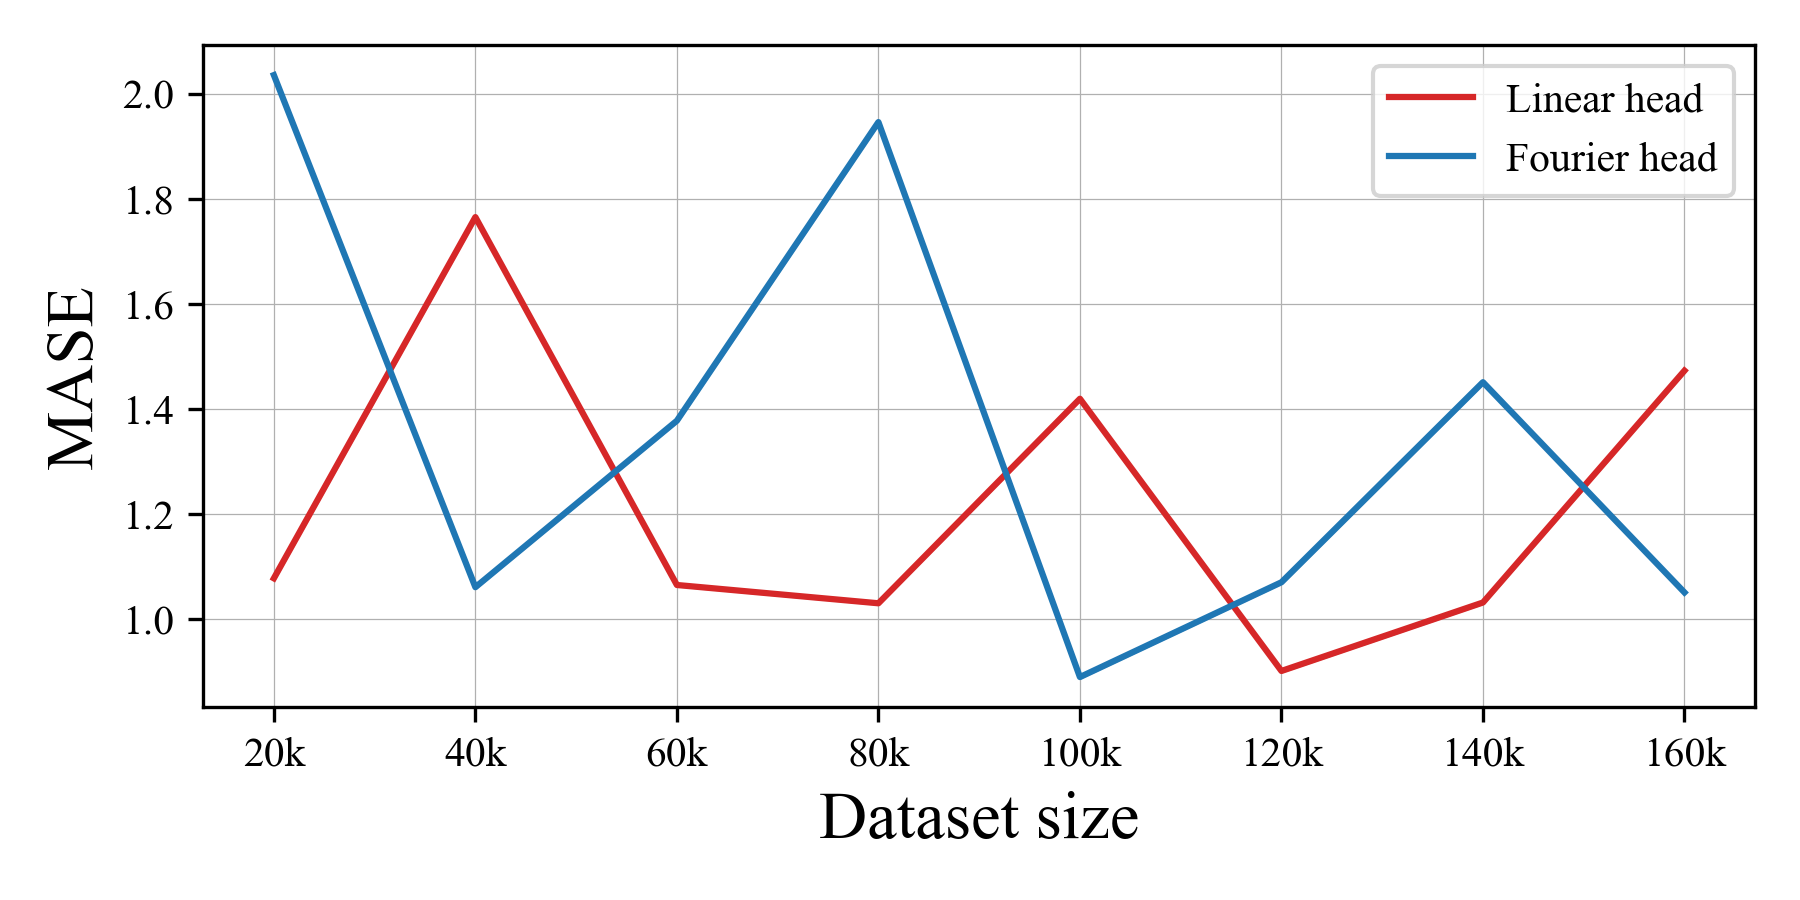
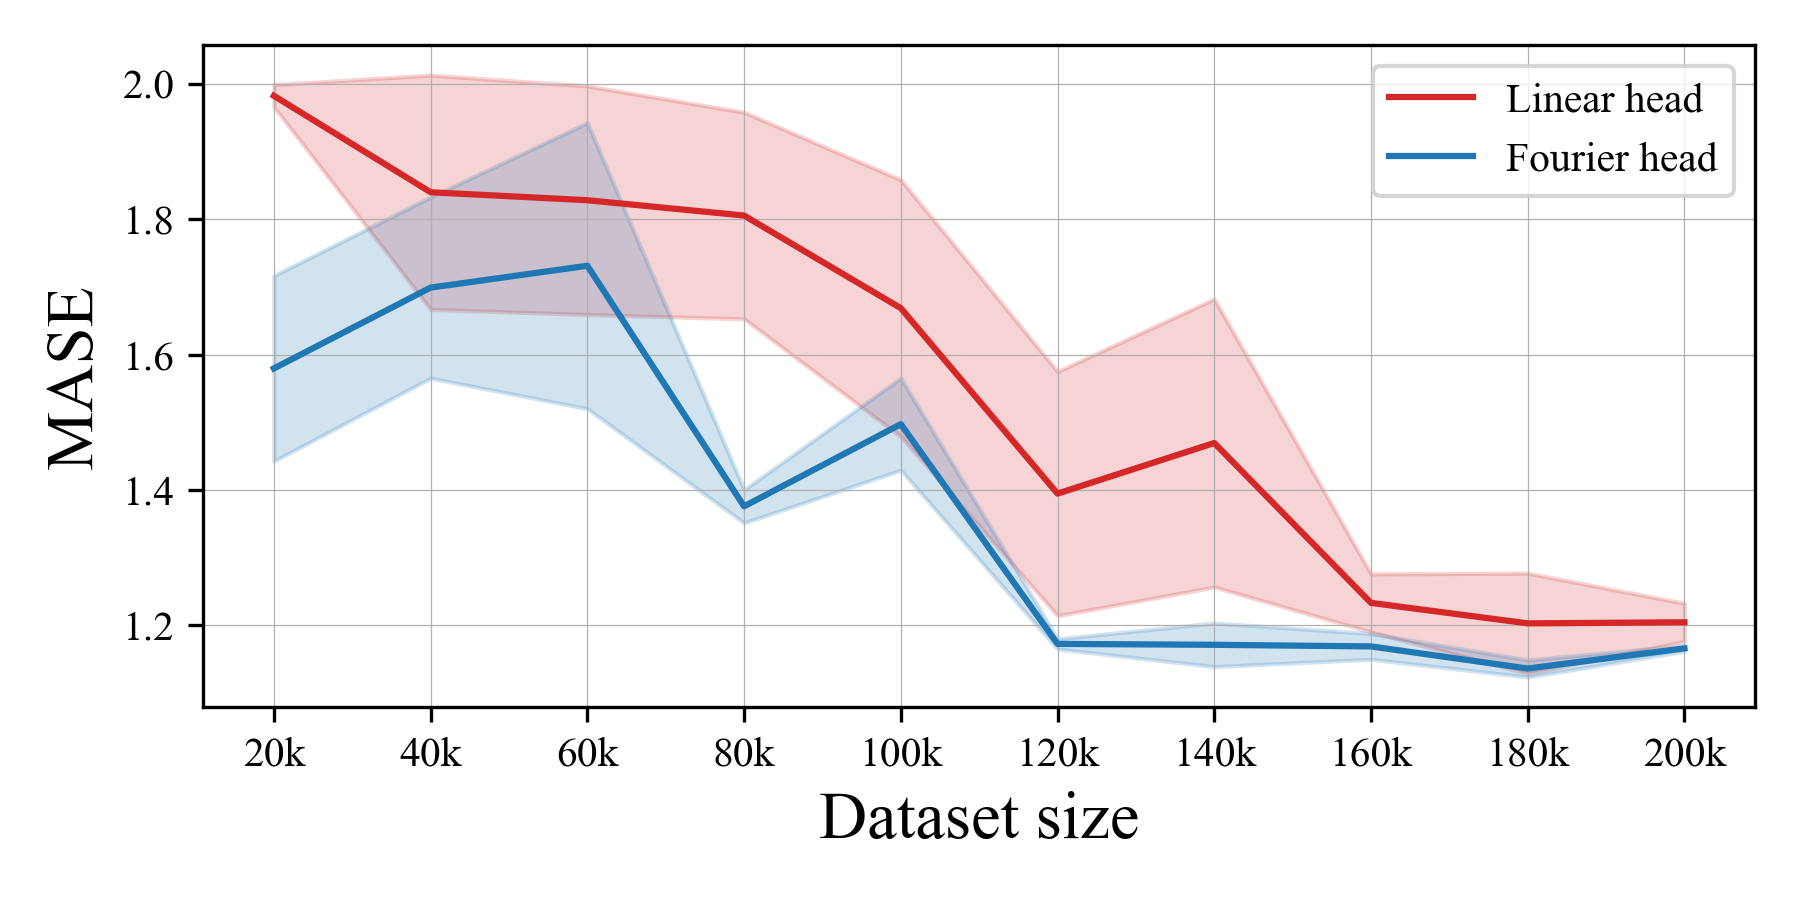
graph update

diff --git a/time-series-forecasting/scripts/eval/graphing/chronos_ablation_varying_dataset_size_v2.py b/time-series-forecasting/scripts/eval/graphing/chronos_ablation_varying_dataset_size_v2.py
@@ -10,9 +10,9 @@ font_manager.fontManager.addfont(font_path)
 plt.rcParams['font.family'] = 'serif'
 plt.rcParams['font.serif'] = 'Times New Roman'
 
-X_POSITIONS = [20000, 40000, 60000, 80000, 100000, 120000, 140000, 160000]
+X_POSITIONS = [20000, 40000, 60000, 80000, 100000, 120000, 140000, 160000, 180000, 200000]
 
-idxs = {
+idxs_v1 = {
     "linear" : {
         20000 : [25],
         40000 : [35],
@@ -35,12 +35,39 @@ idxs = {
     },
 }
 
+idxs = {
+    "linear" : {
+        20000 : [8, 9, 10, 11],
+        40000 : [20, 21, 22, 23],
+        60000 : [32, 33, 34, 35],
+        80000 : [44, 45, 46, 48],
+        100000 : [56, 57, 58, 59],
+        120000 : [72, 73, 74, 75],
+        140000 : [16, 17, 18, 19],
+        160000 : [38, 40, 42, 43],
+        180000 : [61, 63, 65, 67],
+        200000 : [76, 77, 78, 79],
+    },
+    "fourier" : {
+        20000 : [0, 2, 4, 6],
+        40000 : [12, 13, 14, 15],
+        60000 : [25, 27, 29, 31],
+        80000 : [36, 37, 39, 41],
+        100000 : [50, 52, 54, 55],
+        120000 : [60, 62, 64, 66],
+        140000 : [1, 3, 5, 7],
+        160000 : [24, 26, 28, 30],
+        180000 : [47, 49, 51, 53],
+        200000 : [69, 69, 70, 71],
+    },
+}
+
 def get_largest_checkpoint_idx(lst):
     lst_ints = [int(elt) for elt in lst]
     ckpt = str(max(lst_ints))
     return ckpt
 
-def gather_metrics():
+def gather_metrics(base_path):
     metrics = {
         "linear": {"MASE": [], "WQL": [], "MASE_std": [], "WQL_std": []},
         "fourier": {"MASE": [], "WQL": [], "MASE_std": [], "WQL_std": []}
@@ -58,7 +85,7 @@ def gather_metrics():
             
             # Process each run for this dataset size
             for idx in run_indices:
-                file_path = f"output/11-17-dataset-size-ablations-v3/run-{idx}/eval_dict-zero-shot.json"
+                file_path = f"{base_path}/run-{idx}/eval_dict-zero-shot.json"
                 try:
                     with open(file_path, "r") as f:
                         data = json.load(f)
@@ -118,7 +145,7 @@ def build_graph(metric_name, linear_values, fourier_values, linear_std, fourier_
     
     # Set custom x-axis ticks and labels
     ax.set_xticks(x_positions)
-    x_labels = [r'20k', r'40k', r'60k', r'80k', r'100k', r'120k', r'140k', r'160k']
+    x_labels = [r'20k', r'40k', r'60k', r'80k', r'100k', r'120k', r'140k', r'160k', r'180k', r'200k']
     ax.set_xticklabels(x_labels)
     ax.set_xlabel("Dataset size", fontsize=16)
     ax.legend(loc="best")
@@ -128,7 +155,8 @@ def build_graph(metric_name, linear_values, fourier_values, linear_std, fourier_
     plt.close()
 
 def main():
-    metrics = gather_metrics()
+    base_path = "output/11-26-pt4-ablation-dataset-size-smaller"
+    metrics = gather_metrics(base_path)
     
     # Create MASE graph
     build_graph(
